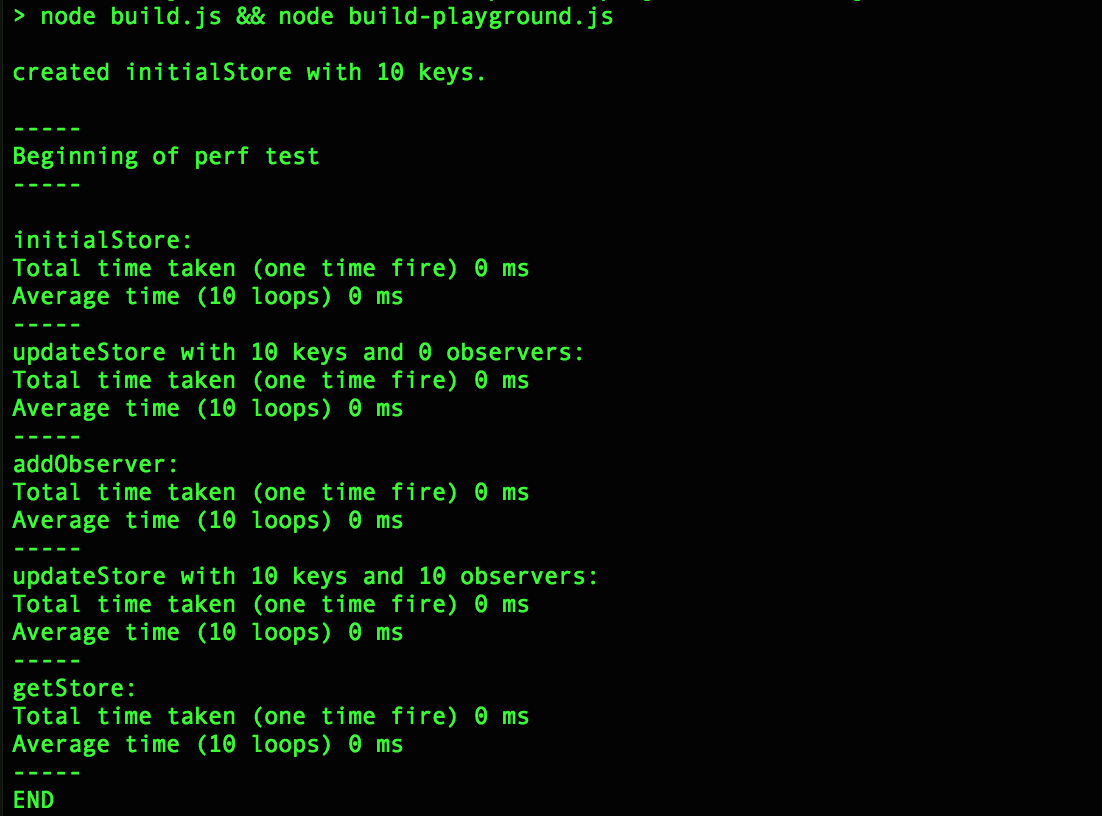
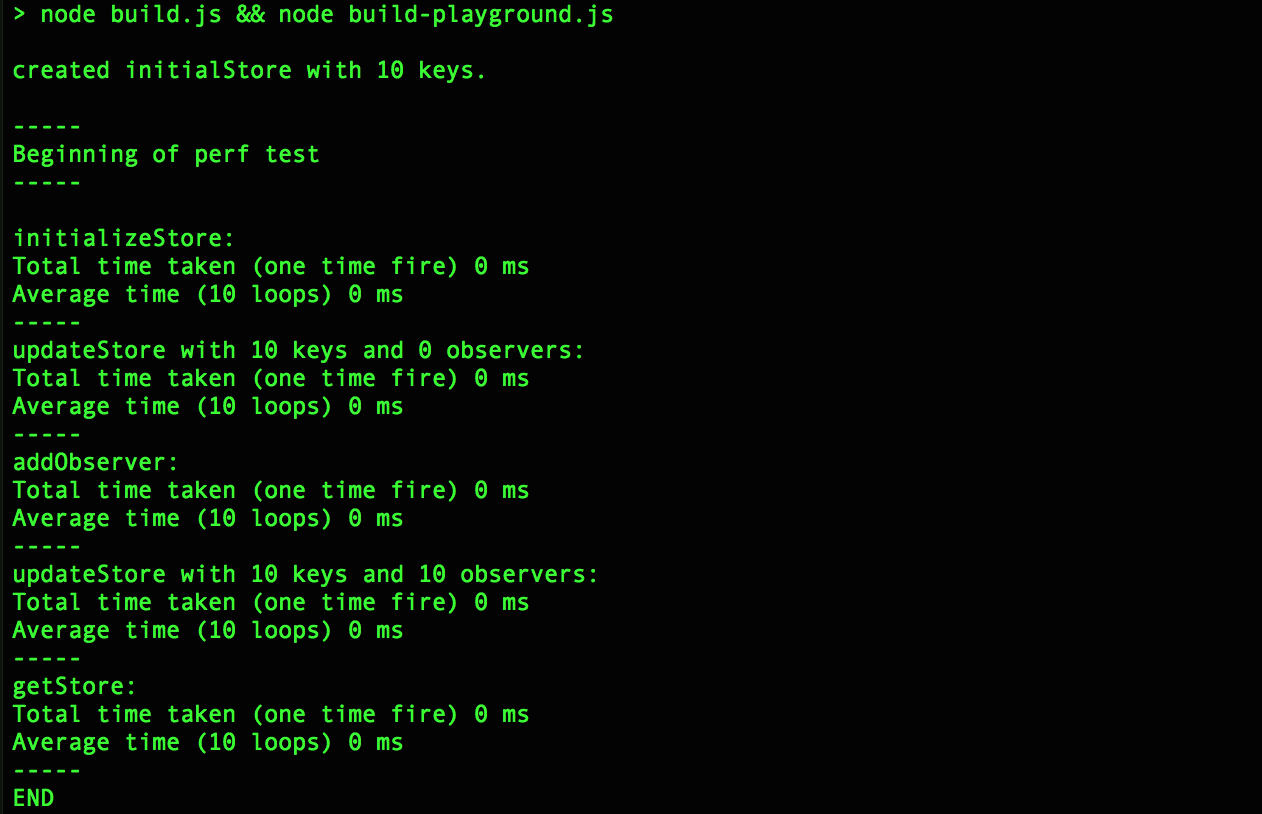
updates; perf tests; docs

diff --git a/lib/index.min.js b/lib/index.min.js
@@ -1,8 +1,1 @@
-'use strict';Object.defineProperty(exports,'__esModule',{value:!0}),exports.initializeStore=initializeStore,exports.getStore=getStore,exports.updateStore=updateStore,exports.addObserver=addObserver;/** @format */var observers=[],store={},persistedStateKeys=null,persistStorage=null,persistTimeout=null;function initializeStore(b){var c=Object.keys(b.initialStore);if(b.persist!==void 0){for(var d=b.persist.restore(JSON.parse(b.persist.storage.getItem('fluxible-js'))||{}),e=0;e<c.length;e++)store[c[e]]=d[c[e]]||b.initialStore[c[e]];// we should only save states that were restored
-// get saved store from storage
-// save the storage
-persistedStateKeys=Object.keys(d),persistStorage=b.persist.storage}else for(var f=0;f<c.length;f++)store[c[f]]=b.initialStore[c[f]]}function getStore(){return store}function updateStore(c){null!==persistedStateKeys&&(null!==persistTimeout&&clearTimeout(persistTimeout),persistTimeout=setTimeout(function(){persistStorage.setItem('fluxible-js',JSON.stringify(persistedStateKeys.reduce(function(a,b){return a[b]=store[b],a},{})))},200));for(var d=Object.keys(c),e=0;e<d.length;e++)store[d[e]]=c[d[e]];// only notify observers that observers the store keys that were updated
-for(var f=0;f<observers.length;f++)// we want to maximize performance, so we loop as little as possible
-if(d.length<observers[f].wantedKeys.length){for(var g=0;g<d.length;g++)if(-1!==observers[f].wantedKeys.indexOf(d[g])){observers[f].callback(store);break}}else// they are either of the same length or
-// the observers[a].wantedKeys is less than the updatedStateKeys
-for(var b=0;b<observers[f].wantedKeys.length;b++)if(-1!==d.indexOf(observers[f].wantedKeys[b])){observers[f].callback(store);break}}function addObserver(a,b){var c={callback:a,wantedKeys:b,id:Math.random().toString()};return observers.push(c),function(){for(var b=0;b<observers.length;b++)if(observers[b].id===c.id)return observers.splice(b,1)}}
+'use strict';Object.defineProperty(exports,'__esModule',{value:!0}),exports.initializeStore=initializeStore,exports.getStore=getStore,exports.updateStore=updateStore,exports.addObserver=addObserver;var observers=[],store={},persistedStateKeys=null,persistStorage=null,persistTimeout=null;function initializeStore(b){var c=Object.keys(b.initialStore);if(b.persist!==void 0){for(var d=b.persist.restore(JSON.parse(b.persist.storage.getItem('fluxible-js'))||{}),e=0;e<c.length;e++)store[c[e]]=d[c[e]]||b.initialStore[c[e]];persistedStateKeys=Object.keys(d),persistStorage=b.persist.storage}else for(var f=0;f<c.length;f++)store[c[f]]=b.initialStore[c[f]]}function getStore(){return store}function updateStore(c){null!==persistedStateKeys&&(null!==persistTimeout&&clearTimeout(persistTimeout),persistTimeout=setTimeout(function(){persistStorage.setItem('fluxible-js',JSON.stringify(persistedStateKeys.reduce(function(a,b){return a[b]=store[b],a},{})))},200));for(var d=Object.keys(c),e=0;e<d.length;e++)store[d[e]]=c[d[e]];for(var f=0;f<observers.length;f++)if(d.length<observers[f].wantedKeys.length){for(var g=0;g<d.length;g++)if(-1!==observers[f].wantedKeys.indexOf(d[g])){observers[f].callback(store);break}}else for(var b=0;b<observers[f].wantedKeys.length;b++)if(-1!==d.indexOf(observers[f].wantedKeys[b])){observers[f].callback(store);break}}function addObserver(a,b){var c={callback:a,wantedKeys:b,id:Math.random().toString()};return observers.push(c),function(){for(var b=0;b<observers.length;b++)if(observers[b].id===c.id)return observers.splice(b,1)}}

diff --git a/lib/index.js b/lib/index.js
@@ -7,7 +7,7 @@ exports.initializeStore = initializeStore;
 exports.getStore = getStore;
 exports.updateStore = updateStore;
 exports.addObserver = addObserver;
-/** @format */
+
 
 var observers = [];
 var store = {};
@@ -19,16 +19,14 @@ function initializeStore(config) {
   var initialStoreKeys = Object.keys(config.initialStore);
 
   if (config.persist !== undefined) {
-    // get saved store from storage
     var persistedStates = config.persist.restore(JSON.parse(config.persist.storage.getItem('fluxible-js')) || {});
 
     for (var a = 0; a < initialStoreKeys.length; a++) {
       store[initialStoreKeys[a]] = persistedStates[initialStoreKeys[a]] || config.initialStore[initialStoreKeys[a]];
     }
 
-    // we should only save states that were restored
     persistedStateKeys = Object.keys(persistedStates);
-    // save the storage
+
     persistStorage = config.persist.storage;
   } else {
     for (var _a = 0; _a < initialStoreKeys.length; _a++) {
@@ -59,9 +57,7 @@ function updateStore(updatedStates) {
     store[updatedStateKeys[a]] = updatedStates[updatedStateKeys[a]];
   }
 
-  // only notify observers that observers the store keys that were updated
   for (var _a2 = 0; _a2 < observers.length; _a2++) {
-    // we want to maximize performance, so we loop as little as possible
     if (updatedStateKeys.length < observers[_a2].wantedKeys.length) {
       for (var b = 0; b < updatedStateKeys.length; b++) {
         if (observers[_a2].wantedKeys.indexOf(updatedStateKeys[b]) !== -1) {
@@ -70,8 +66,6 @@ function updateStore(updatedStates) {
         }
       }
     } else {
-      // they are either of the same length or
-      // the observers[a].wantedKeys is less than the updatedStateKeys
       for (var _b = 0; _b < observers[_a2].wantedKeys.length; _b++) {
         if (updatedStateKeys.indexOf(observers[_a2].wantedKeys[_b]) !== -1) {
           observers[_a2].callback(store);

diff --git a/playground/build/lib.js b/playground/build/lib.js
@@ -7,7 +7,7 @@ exports.initializeStore = initializeStore;
 exports.getStore = getStore;
 exports.updateStore = updateStore;
 exports.addObserver = addObserver;
-/** @format */
+
 
 var observers = [];
 var store = {};
@@ -19,16 +19,14 @@ function initializeStore(config) {
   var initialStoreKeys = Object.keys(config.initialStore);
 
   if (config.persist !== undefined) {
-    // get saved store from storage
     var persistedStates = config.persist.restore(JSON.parse(config.persist.storage.getItem('fluxible-js')) || {});
 
     for (var a = 0; a < initialStoreKeys.length; a++) {
       store[initialStoreKeys[a]] = persistedStates[initialStoreKeys[a]] || config.initialStore[initialStoreKeys[a]];
     }
 
-    // we should only save states that were restored
     persistedStateKeys = Object.keys(persistedStates);
-    // save the storage
+
     persistStorage = config.persist.storage;
   } else {
     for (var _a = 0; _a < initialStoreKeys.length; _a++) {
@@ -59,9 +57,7 @@ function updateStore(updatedStates) {
     store[updatedStateKeys[a]] = updatedStates[updatedStateKeys[a]];
   }
 
-  // only notify observers that observers the store keys that were updated
   for (var _a2 = 0; _a2 < observers.length; _a2++) {
-    // we want to maximize performance, so we loop as little as possible
     if (updatedStateKeys.length < observers[_a2].wantedKeys.length) {
       for (var b = 0; b < updatedStateKeys.length; b++) {
         if (observers[_a2].wantedKeys.indexOf(updatedStateKeys[b]) !== -1) {
@@ -70,8 +66,6 @@ function updateStore(updatedStates) {
         }
       }
     } else {
-      // they are either of the same length or
-      // the observers[a].wantedKeys is less than the updatedStateKeys
       for (var _b = 0; _b < observers[_a2].wantedKeys.length; _b++) {
         if (updatedStateKeys.indexOf(observers[_a2].wantedKeys[_b]) !== -1) {
           observers[_a2].callback(store);

diff --git a/playground/lib.js b/playground/lib.js
@@ -7,7 +7,7 @@ exports.initializeStore = initializeStore;
 exports.getStore = getStore;
 exports.updateStore = updateStore;
 exports.addObserver = addObserver;
-/** @format */
+
 
 var observers = [];
 var store = {};
@@ -19,16 +19,14 @@ function initializeStore(config) {
   var initialStoreKeys = Object.keys(config.initialStore);
 
   if (config.persist !== undefined) {
-    // get saved store from storage
     var persistedStates = config.persist.restore(JSON.parse(config.persist.storage.getItem('fluxible-js')) || {});
 
     for (var a = 0; a < initialStoreKeys.length; a++) {
       store[initialStoreKeys[a]] = persistedStates[initialStoreKeys[a]] || config.initialStore[initialStoreKeys[a]];
     }
 
-    // we should only save states that were restored
     persistedStateKeys = Object.keys(persistedStates);
-    // save the storage
+
     persistStorage = config.persist.storage;
   } else {
     for (var _a = 0; _a < initialStoreKeys.length; _a++) {
@@ -59,9 +57,7 @@ function updateStore(updatedStates) {
     store[updatedStateKeys[a]] = updatedStates[updatedStateKeys[a]];
   }
 
-  // only notify observers that observers the store keys that were updated
   for (var _a2 = 0; _a2 < observers.length; _a2++) {
-    // we want to maximize performance, so we loop as little as possible
     if (updatedStateKeys.length < observers[_a2].wantedKeys.length) {
       for (var b = 0; b < updatedStateKeys.length; b++) {
         if (observers[_a2].wantedKeys.indexOf(updatedStateKeys[b]) !== -1) {
@@ -70,8 +66,6 @@ function updateStore(updatedStates) {
         }
       }
     } else {
-      // they are either of the same length or
-      // the observers[a].wantedKeys is less than the updatedStateKeys
       for (var _b = 0; _b < observers[_a2].wantedKeys.length; _b++) {
         if (updatedStateKeys.indexOf(observers[_a2].wantedKeys[_b]) !== -1) {
           observers[_a2].callback(store);

diff --git a/src/index.js b/src/index.js
@@ -58,7 +58,7 @@ export function updateStore (updatedStates) {
     store[updatedStateKeys[a]] = updatedStates[updatedStateKeys[a]];
   }
 
-  // only notify observers that observers the store keys that were updated
+  // only notify observers that observes the store keys that were updated
   for (let a = 0; a < observers.length; a++) {
     // we want to maximize performance, so we loop as little as possible
     if (updatedStateKeys.length < observers[a].wantedKeys.length) {
@@ -70,7 +70,7 @@ export function updateStore (updatedStates) {
       }
     } else {
       // they are either of the same length or
-      // the observers[a].wantedKeys is less than the updatedStateKeys
+      // the wantedKeys is less than the updatedStateKeys
       for (let b = 0; b < observers[a].wantedKeys.length; b++) {
         if (updatedStateKeys.indexOf(observers[a].wantedKeys[b]) !== -1) {
           observers[a].callback(store);

diff --git a/build.js b/build.js
@@ -7,13 +7,13 @@ const path = require('path');
 const source = fs.readFileSync(path.join(__dirname, '/src/index.js'), 'utf8');
 const code = babelCore.transform(source, {
   babelrc: false,
-  presets: ['env'],
-  plugins: ['transform-object-rest-spread']
+  comments: false,
+  presets: ['env']
 }).code;
 const codeMin = babelCore.transform(source, {
   babelrc: false,
-  presets: ['env', 'minify'],
-  plugins: ['transform-object-rest-spread']
+  comments: false,
+  presets: ['env', 'minify']
 }).code;
 
 fs.writeFileSync(path.join(__dirname, '/lib/index.js'), code, 'utf8');

diff --git a/__tests__/perf.spec.js b/__tests__/perf.spec.js
@@ -37,7 +37,7 @@ console.log('Beginning of perf test');
 console.log('-----\n');
 
 // ----------
-console.log('initialStore:');
+console.log('initializeStore:');
 
 timeTaken = Date.now();
 initializeStore({ initialStore });

diff --git a/README.md b/README.md
@@ -8,7 +8,7 @@ Smaller, faster, better. A small state management system that supports the idea 
 
 ## Unit tests
 
-<img src="docs/ss-test-func.png">
+<img src="docs/ss-test-unit.png">
 
 ## Performance tests
 
@@ -60,7 +60,9 @@ The goal of this state management library is to allow you to initialize, update,
 
 ## Test me
 
-1. `npm run test`
+- `npm run test-func` to run unit tests.
+- `npm run test-perf` to run performance test.
+- `npm run test-all` to run both.
 
 ## Install
 
@@ -155,13 +157,21 @@ The library itself does not restrict you to anything. You could use promises, as
 Example:
 
 ```js
-Axios.get(url, config).then(response => {
-  // do what you need to do
-  // then update the store when you're good.
+import { updateStore } from 'fluxible';
+
+function myAction() {
   updateStore({
     someOtherState: someValue
   });
-});
+
+  Axios.get(url, config).then(response => {
+    // do what you need to do
+    // then update the store when you're good.
+    updateStore({
+      someOtherState: someValue
+    });
+  });
+}
 ```
 
 # Contributing
